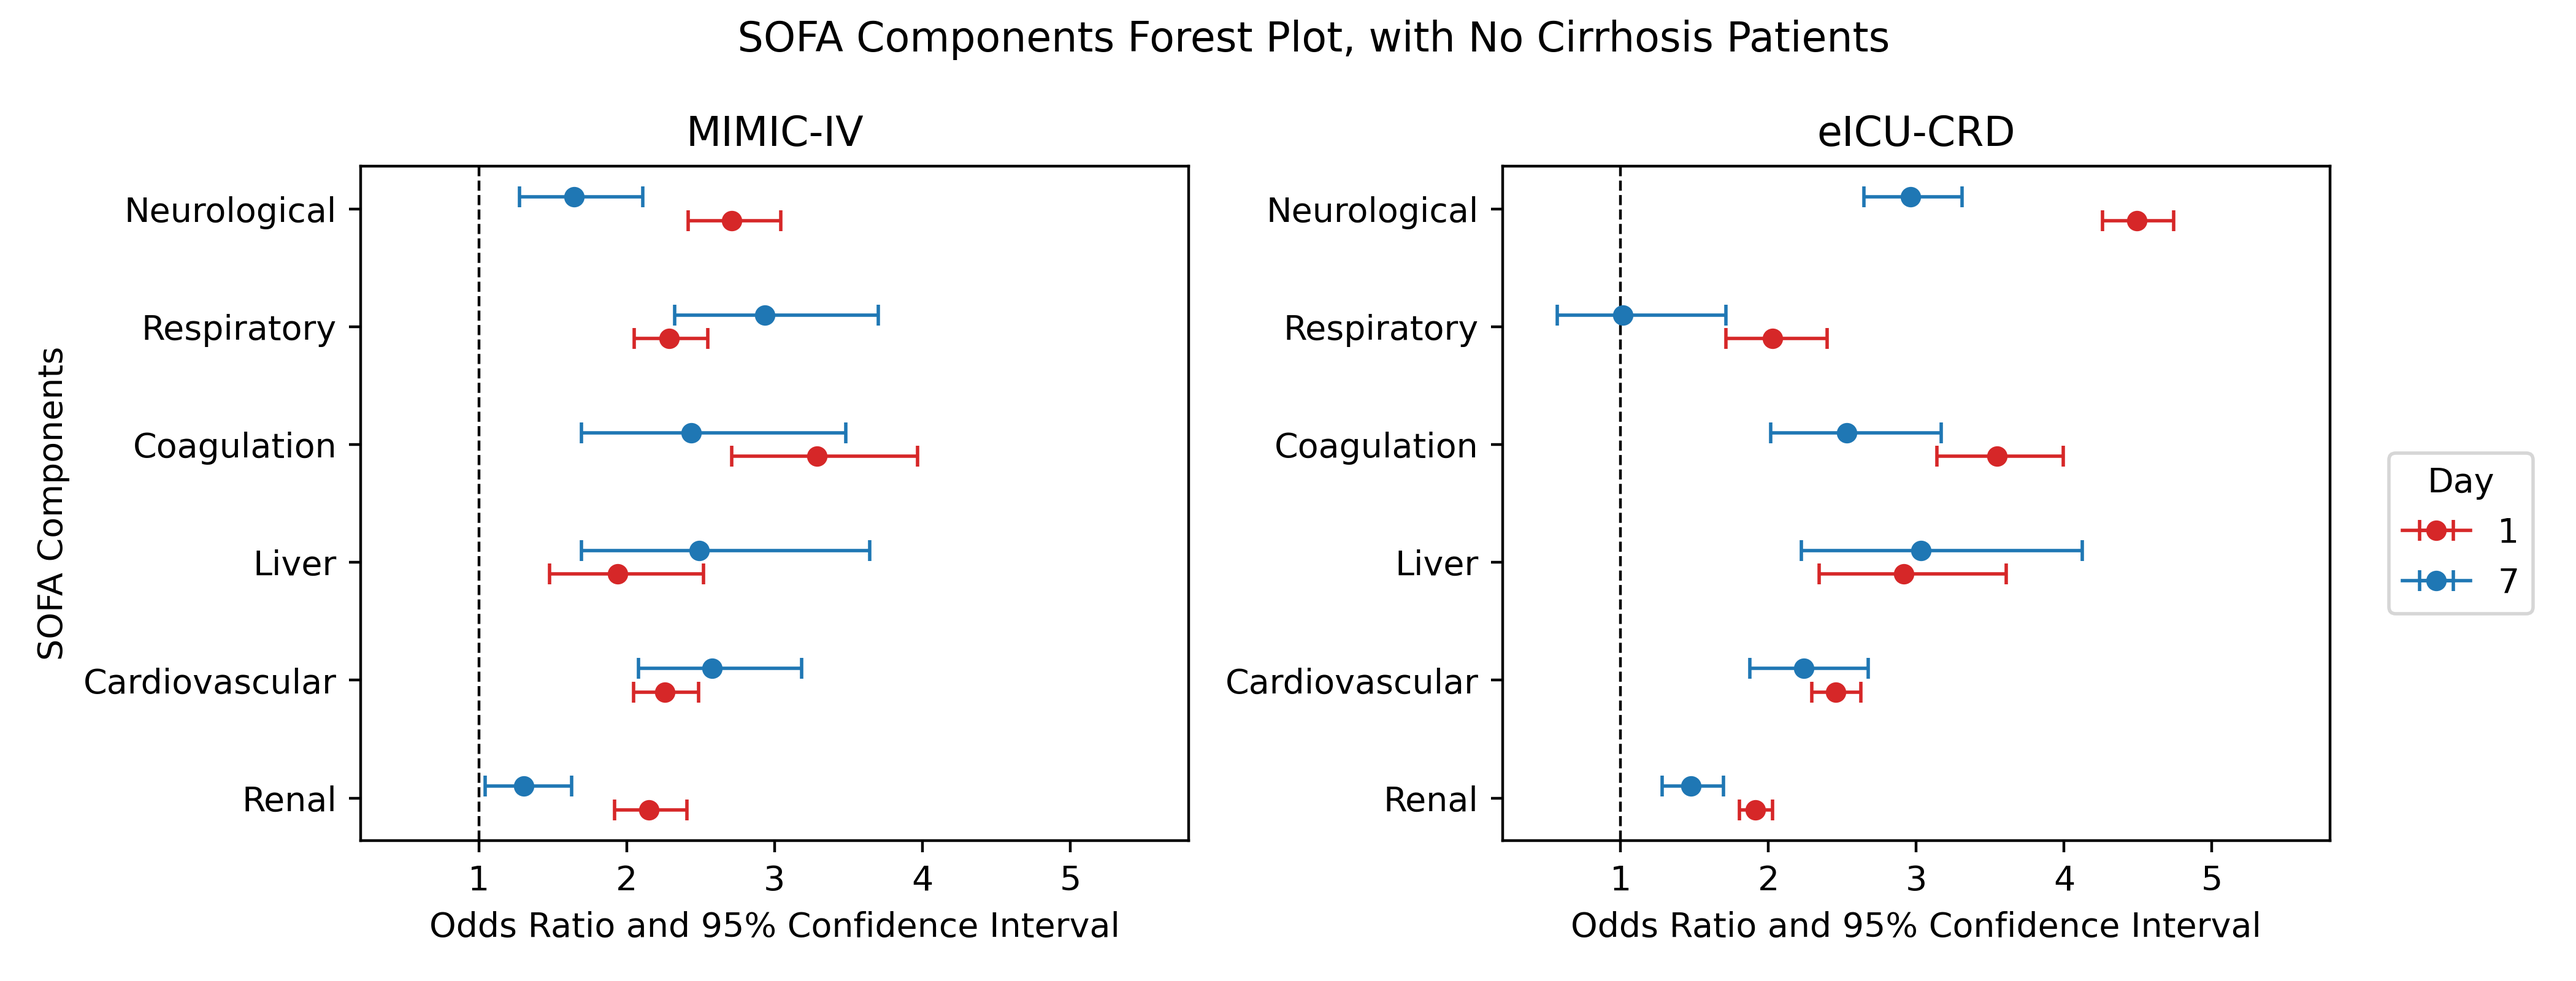
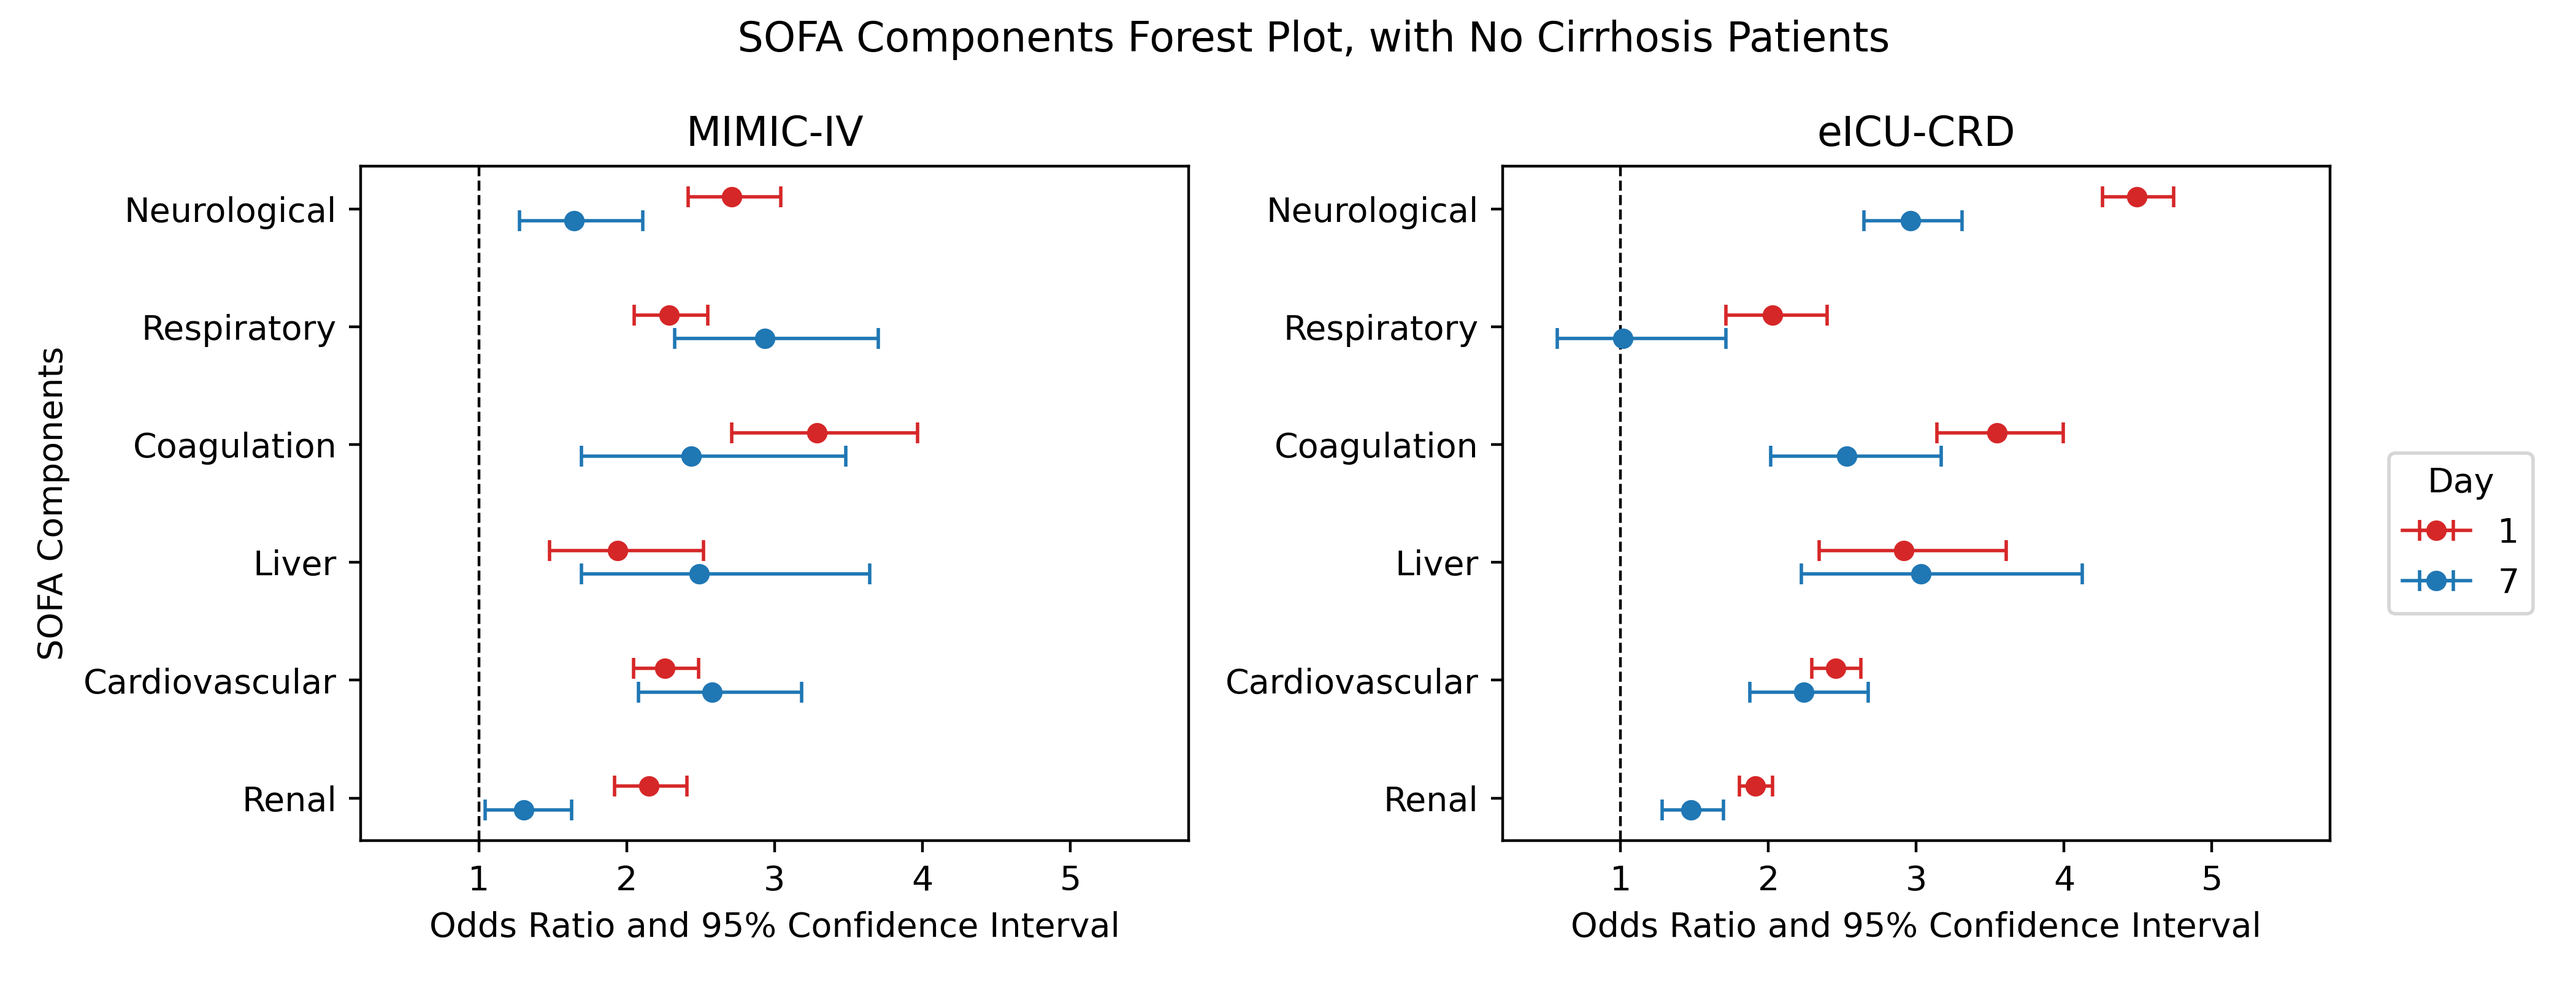
Fix colors in forest plot

diff --git a/src/py/plot_or_results.py b/src/py/plot_or_results.py
@@ -30,7 +30,7 @@ cohorts = {"MIMIC": "MIMIC-IV",
 
 colors = ["tab:red", "tab:blue"]
 markerstyles = ['o', 'v']
-daysoffset = [-.1,.1]
+daysoffset = [.1,-.1]
 
 yy = range(6, 0, -1)
 
